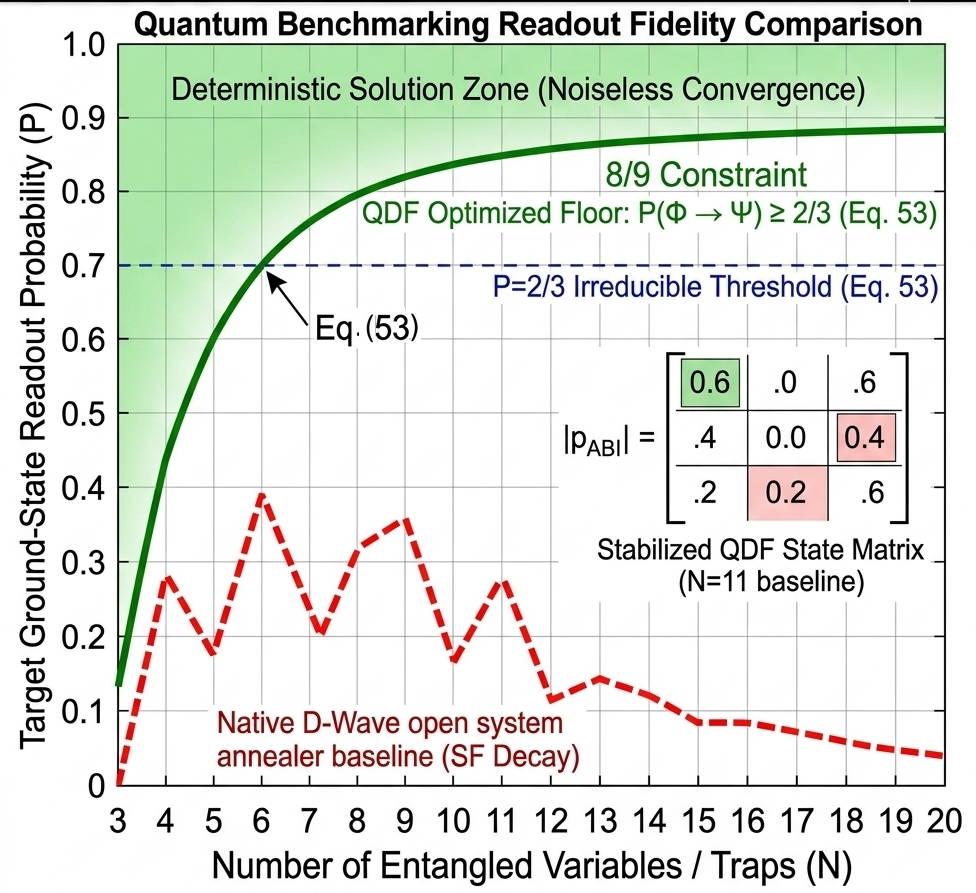
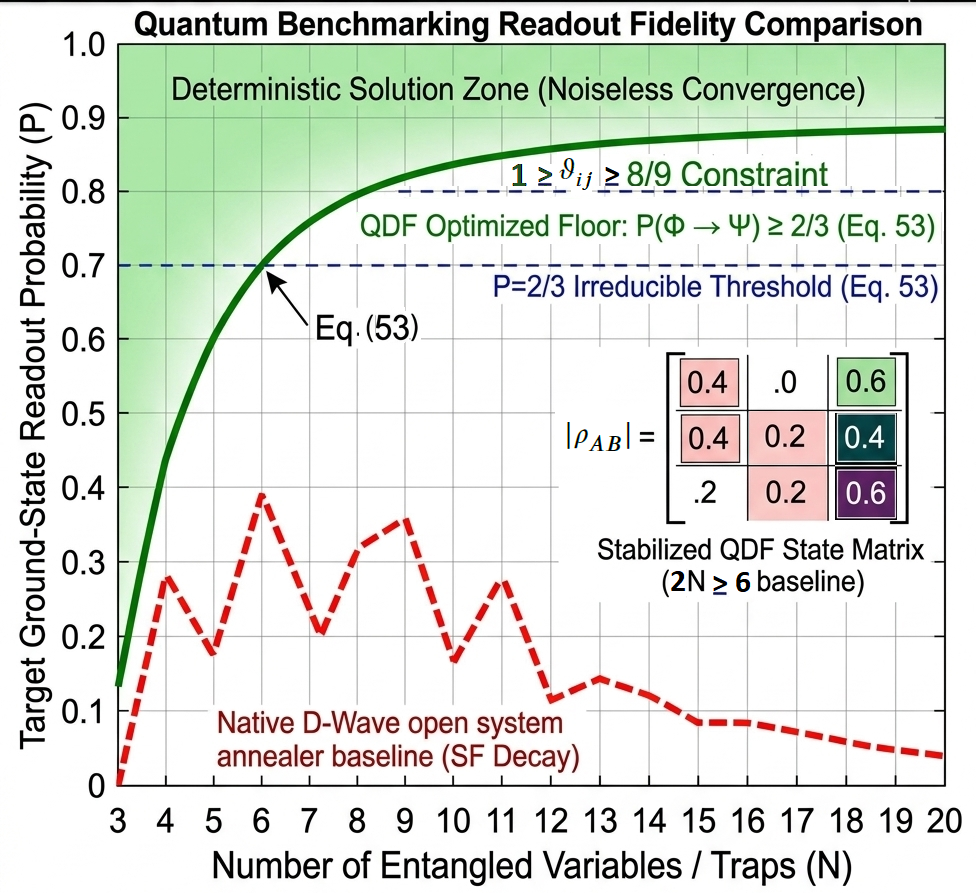
set update

diff --git a/PBA_Portfolio.html b/PBA_Portfolio.html
@@ -1825,7 +1825,7 @@ function secureEmail(event) {
 
   <div class="skill-category-block" style="border-left: 3px solid #00ffff; padding-left: 15px;">
     <h4 style="margin: 0 0 5px 0; color: #00ffff;">[04] TOPOLOGICAL MAPPING</h4>
-    <p style="font-size: 0.9rem; color: #8b949e; margin: 0;">Constructing and/or integrating the 2xQuBABE™ system into current hybrid systems to sample and map/simulate system states based on the QDF circuit and QFLCA. is designed to address high-dimensional design-space optimization and surrogate modelling with strong system state prediction and computational performance.</p>
+    <p style="font-size: 0.9rem; color: #8b949e; margin: 0;">Integrating the SF-QDFcircuit-based 2xQuBABE™ system into current mainstream systems to sample system states, and address high-dimensional design-space optimization by surrogate modelling with their strong state prediction and computational performance.</p>
   </div>
 
 

diff --git a/README.md b/README.md
@@ -203,8 +203,8 @@ Based on the Post-Ph.D. Defence Seminar and the accompanying transcript, this co
 
 # 🚀 2xQuBABE™ via QFLC Dashboard: Quantum Bell<i>-ABE</i> Field Lens Coding 
 ### Real-Time Quantum State Emulation & Multi-Scale Telemetry Monitoring
-[![UN SDG 7: Affordable and Clean Energy](./assets/SDG_wheel01.png)](https://handle.net)
-[![Institutional Audit: UVic ETD Repository](https://shields.io)](https://hdl.handle.net/1828/23705)
+[![UN SDG 7: Affordable and Clean Energy via Institutional Audit: UVic ETD Repository](./assets/SDG_wheel01.png)](https://hdl.handle.net/1828/23705)
+
 
 
 The newly-finalized 2xQuBABE™ Macro/Microscopic Sampling Simulator — built on underlying Quantum Double-Field (QDF) framework — is designed to address **high-dimensional design-space optimization** and **surrogate modeling** with **strong system state prediction** and **computational performance**. 
